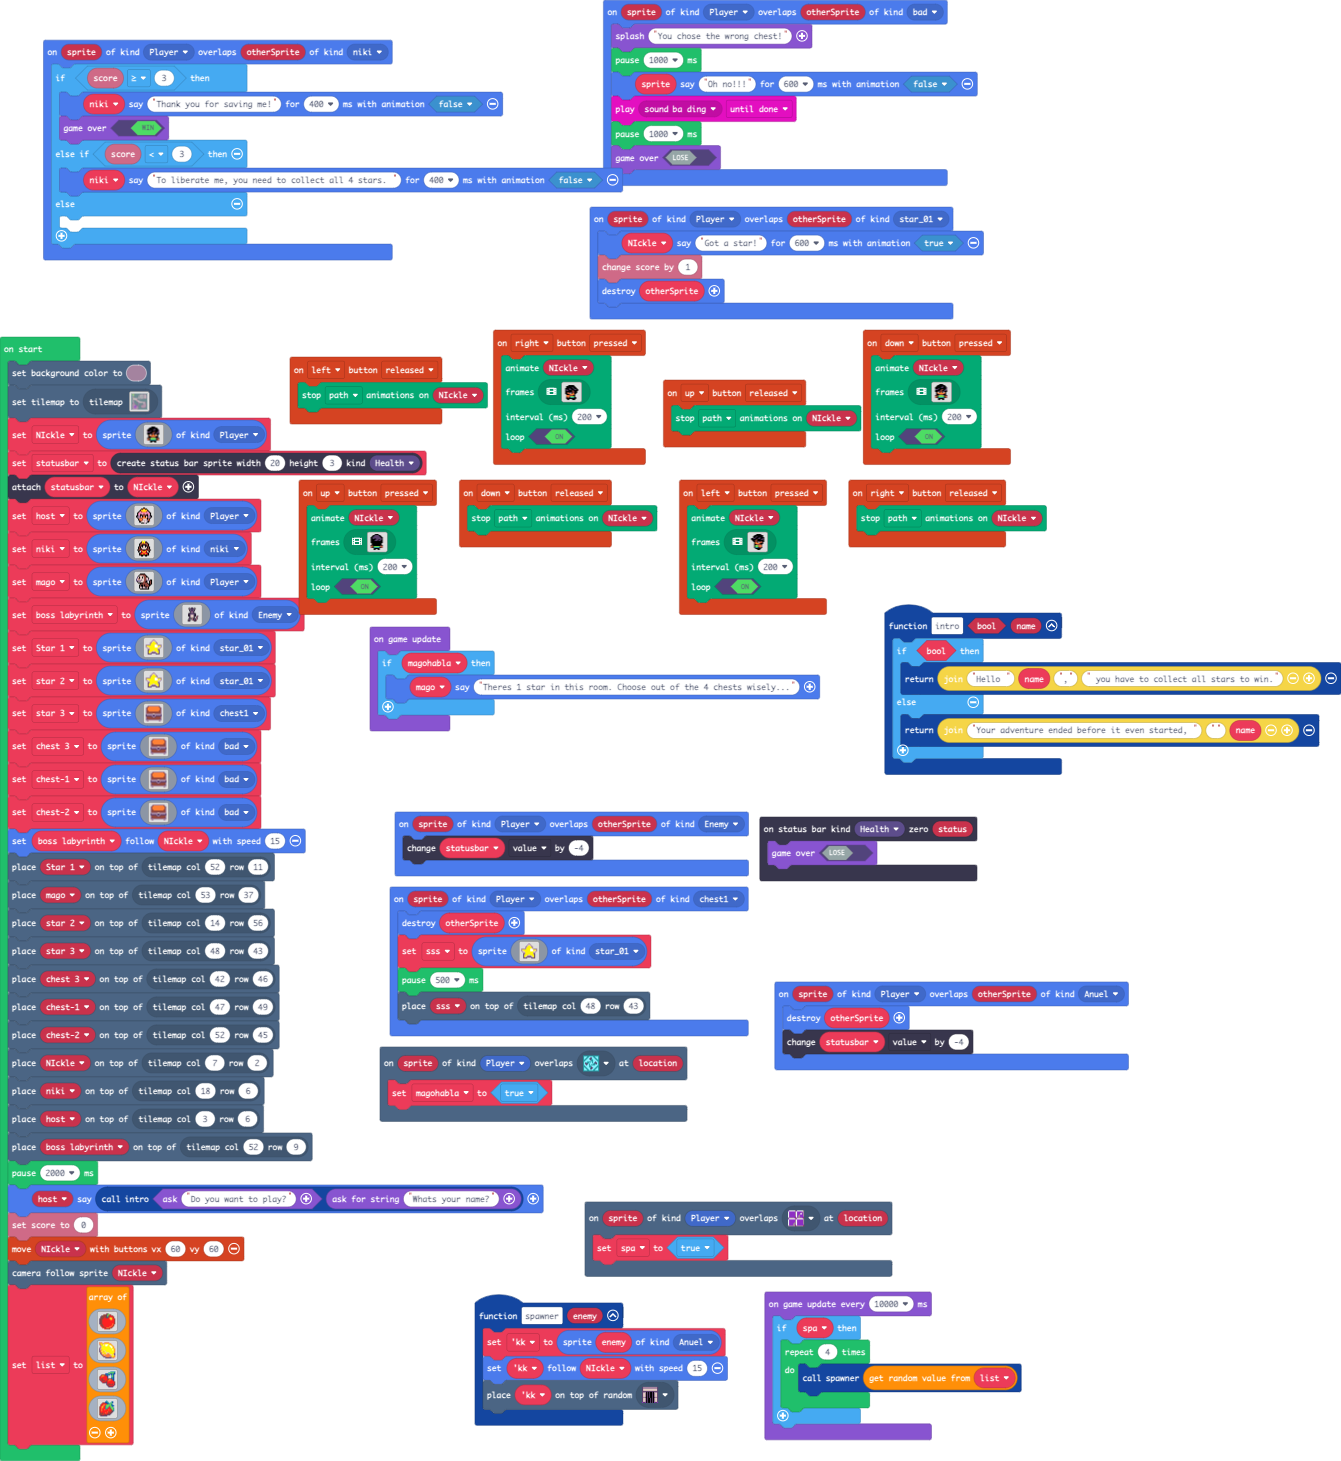
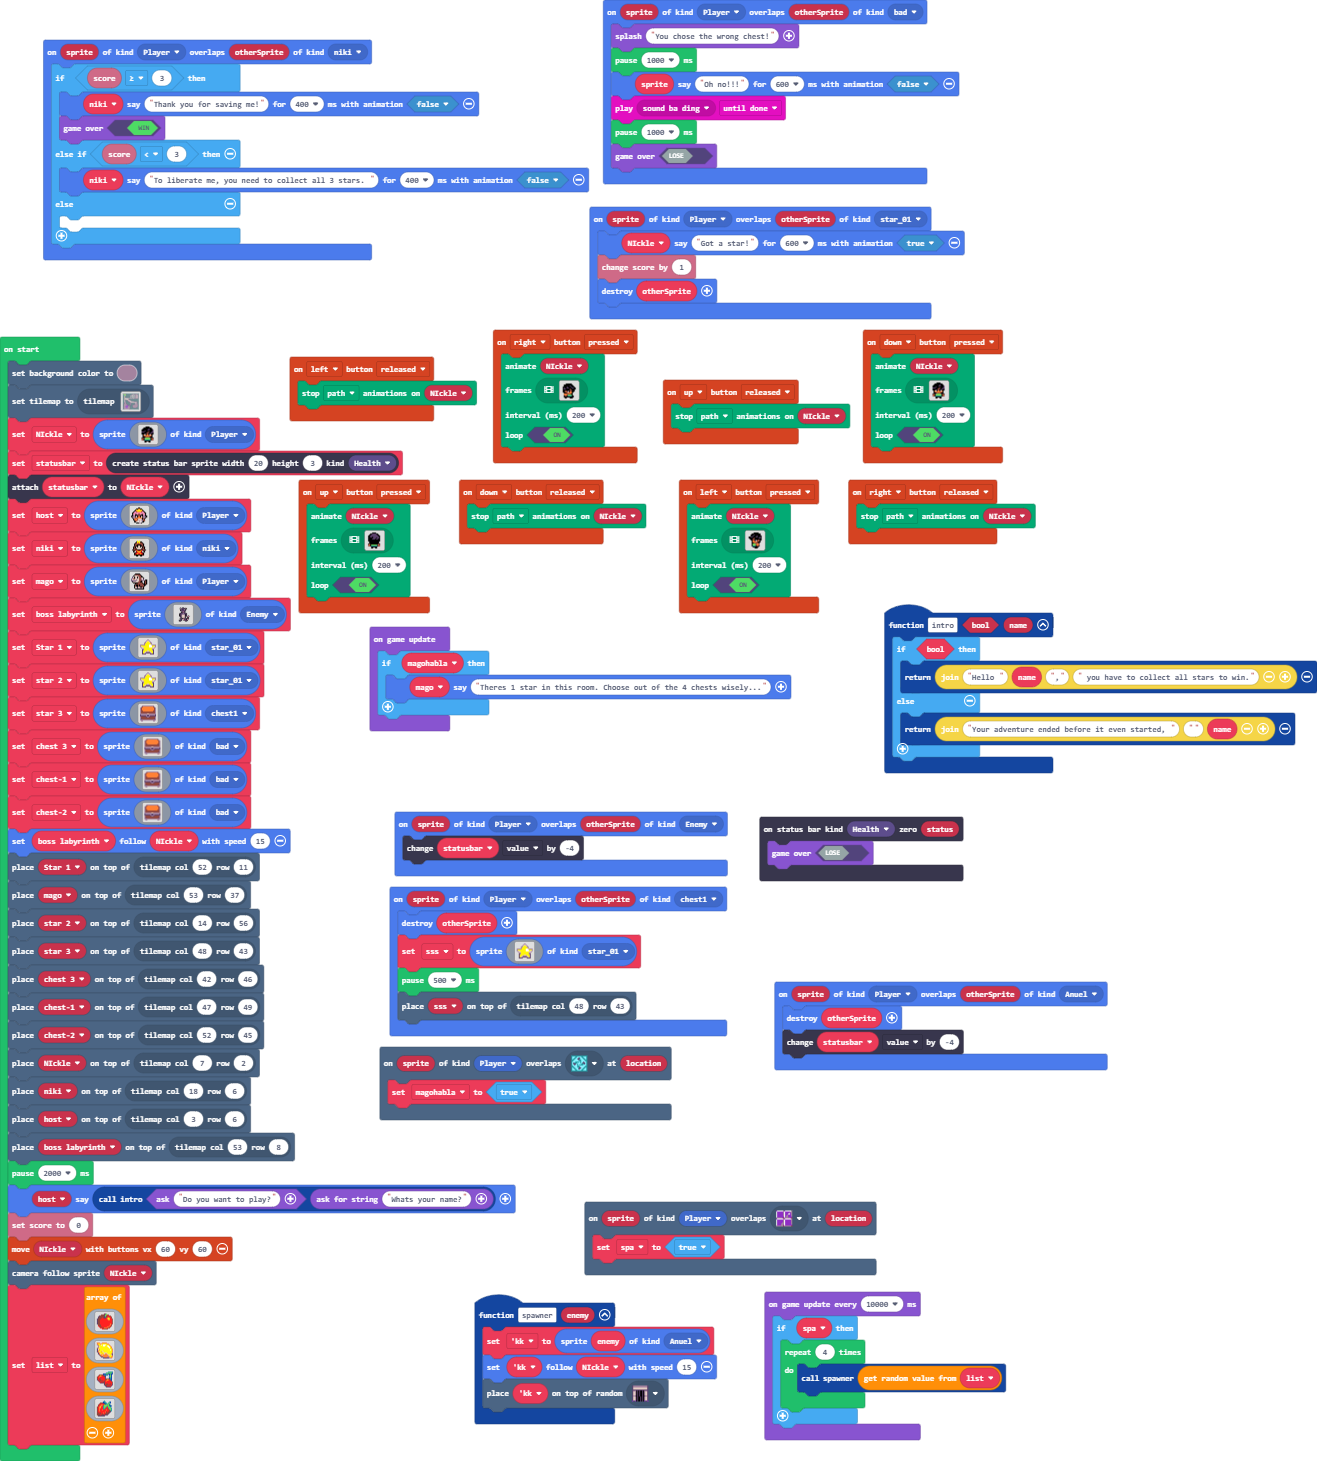
Update main.blocks, main.ts

diff --git a/main.ts b/main.ts
@@ -144,7 +144,7 @@ sprites.onOverlap(SpriteKind.Player, SpriteKind.niki, function (sprite, otherSpr
         niki.sayText("Thank you for saving me!", 400, false)
         game.gameOver(true)
     } else if (info.score() < 3) {
-        niki.sayText("To liberate me, you need to collect all 4 stars. ", 400, false)
+        niki.sayText("To liberate me, you need to collect all 3 stars. ", 400, false)
     } else {
     	
     }
@@ -566,7 +566,7 @@ tiles.placeOnTile(chest2, tiles.getTileLocation(52, 45))
 tiles.placeOnTile(NIckle, tiles.getTileLocation(7, 2))
 tiles.placeOnTile(niki, tiles.getTileLocation(18, 6))
 tiles.placeOnTile(host, tiles.getTileLocation(3, 6))
-tiles.placeOnTile(boss_labyrinth, tiles.getTileLocation(52, 9))
+tiles.placeOnTile(boss_labyrinth, tiles.getTileLocation(53, 8))
 pause(2000)
 host.sayText(intro(game.ask("Do you want to play?"), game.askForString("Whats your name?")))
 info.setScore(0)
